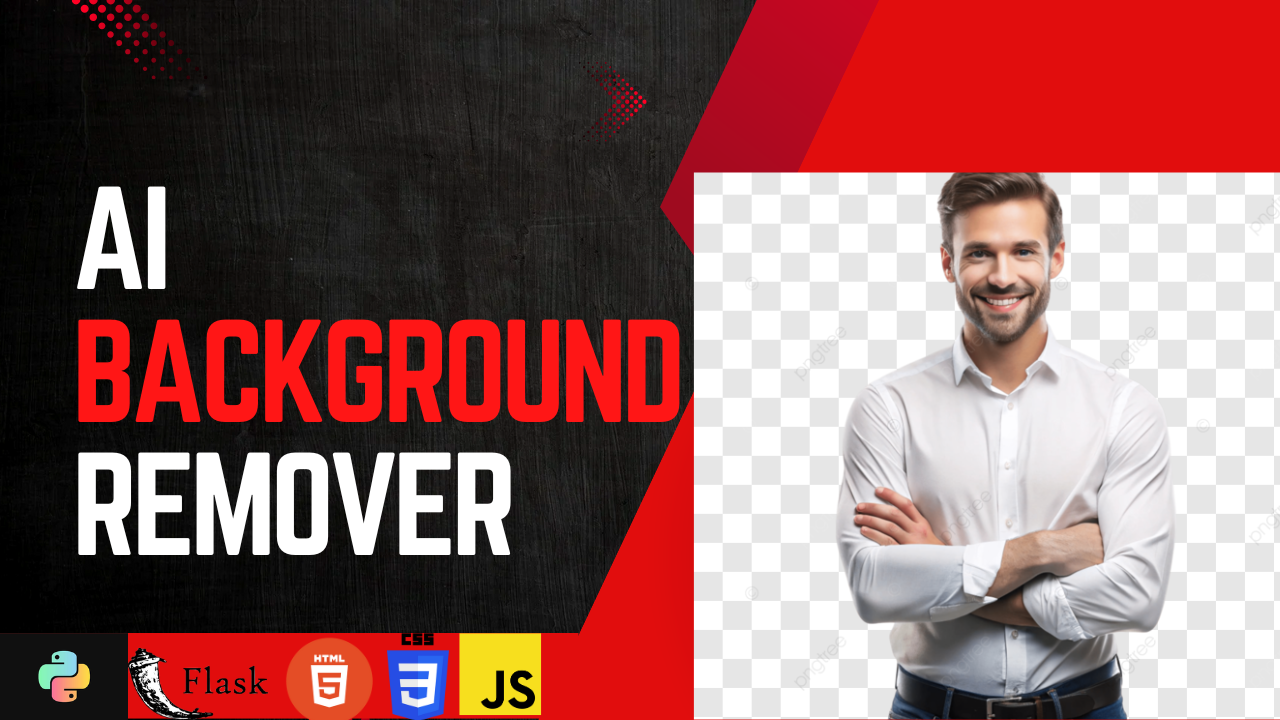
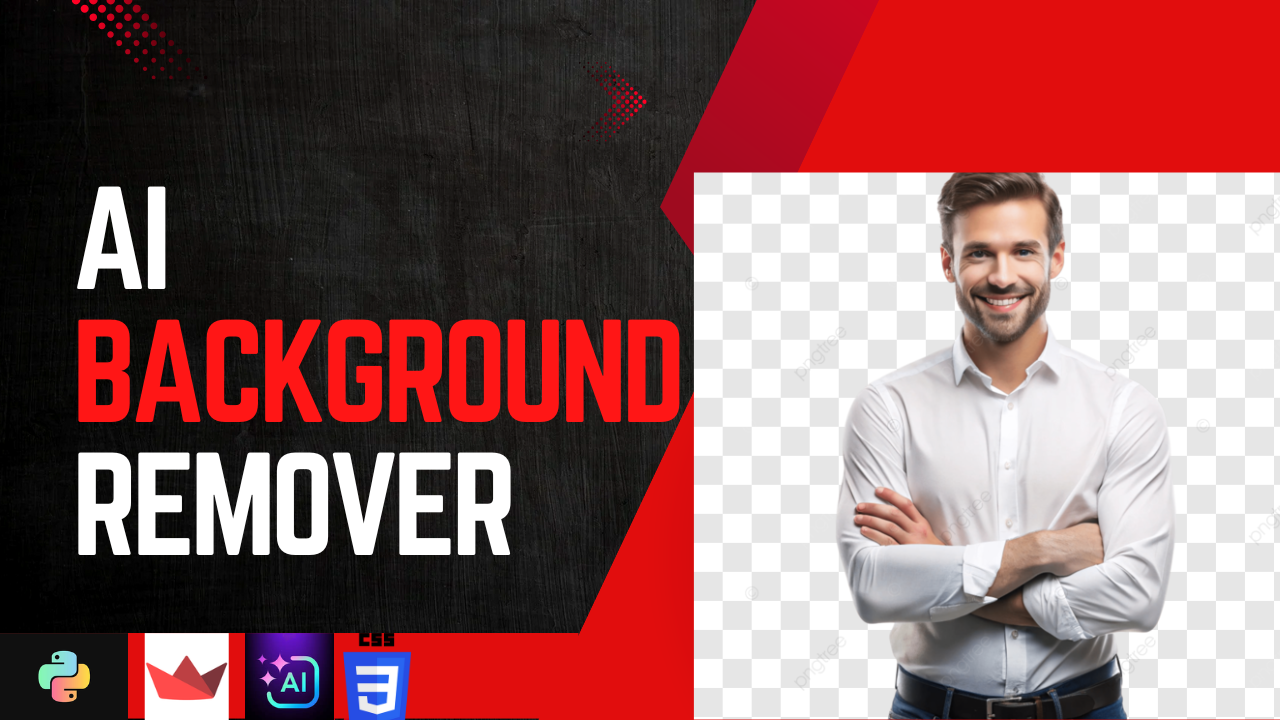
Updated

Changed region(s): [[0.0938, 0.8556, 0.4375, 1.0]]

diff --git a/index.html b/index.html
@@ -462,15 +462,16 @@
                         <div class="project-tags">
                             <span class="tag">Python</span>
                             <span class="tag">rembg</span>
-                            <span class="tag"> PIL</span>
-                            <span class="tag">Flask</span>
-                            <span class="tag">HTML5</span>
+                            <span class="tag"> Streamlit </span>
+                            <span class="tag">AI</span>                            
                             <span class="tag">CSS3</span>
-                            <span class="tag">JavaScript</span>
+                            <span class="tag">github</span>
                         </div>
                         <div class="project-buttons">
-                            <a href="https://github.com/Its-Vikas-xd/Sales-Data-Analyzer-Application" target="_blank" class="btn btn-outline btn-small">GitHub</a>
+                            <a href="https://github.com/Its-Vikas-xd/AI-Background-Remover" target="_blank" class="btn btn-outline btn-small">GitHub</a>
+                        <a href="https://ai-background-remover.streamlit.app" target="_blank" class="btn btn-outline btn-small">Live Demo </a>
                         </div>
+                        
                     </div>
                 </div>
               
